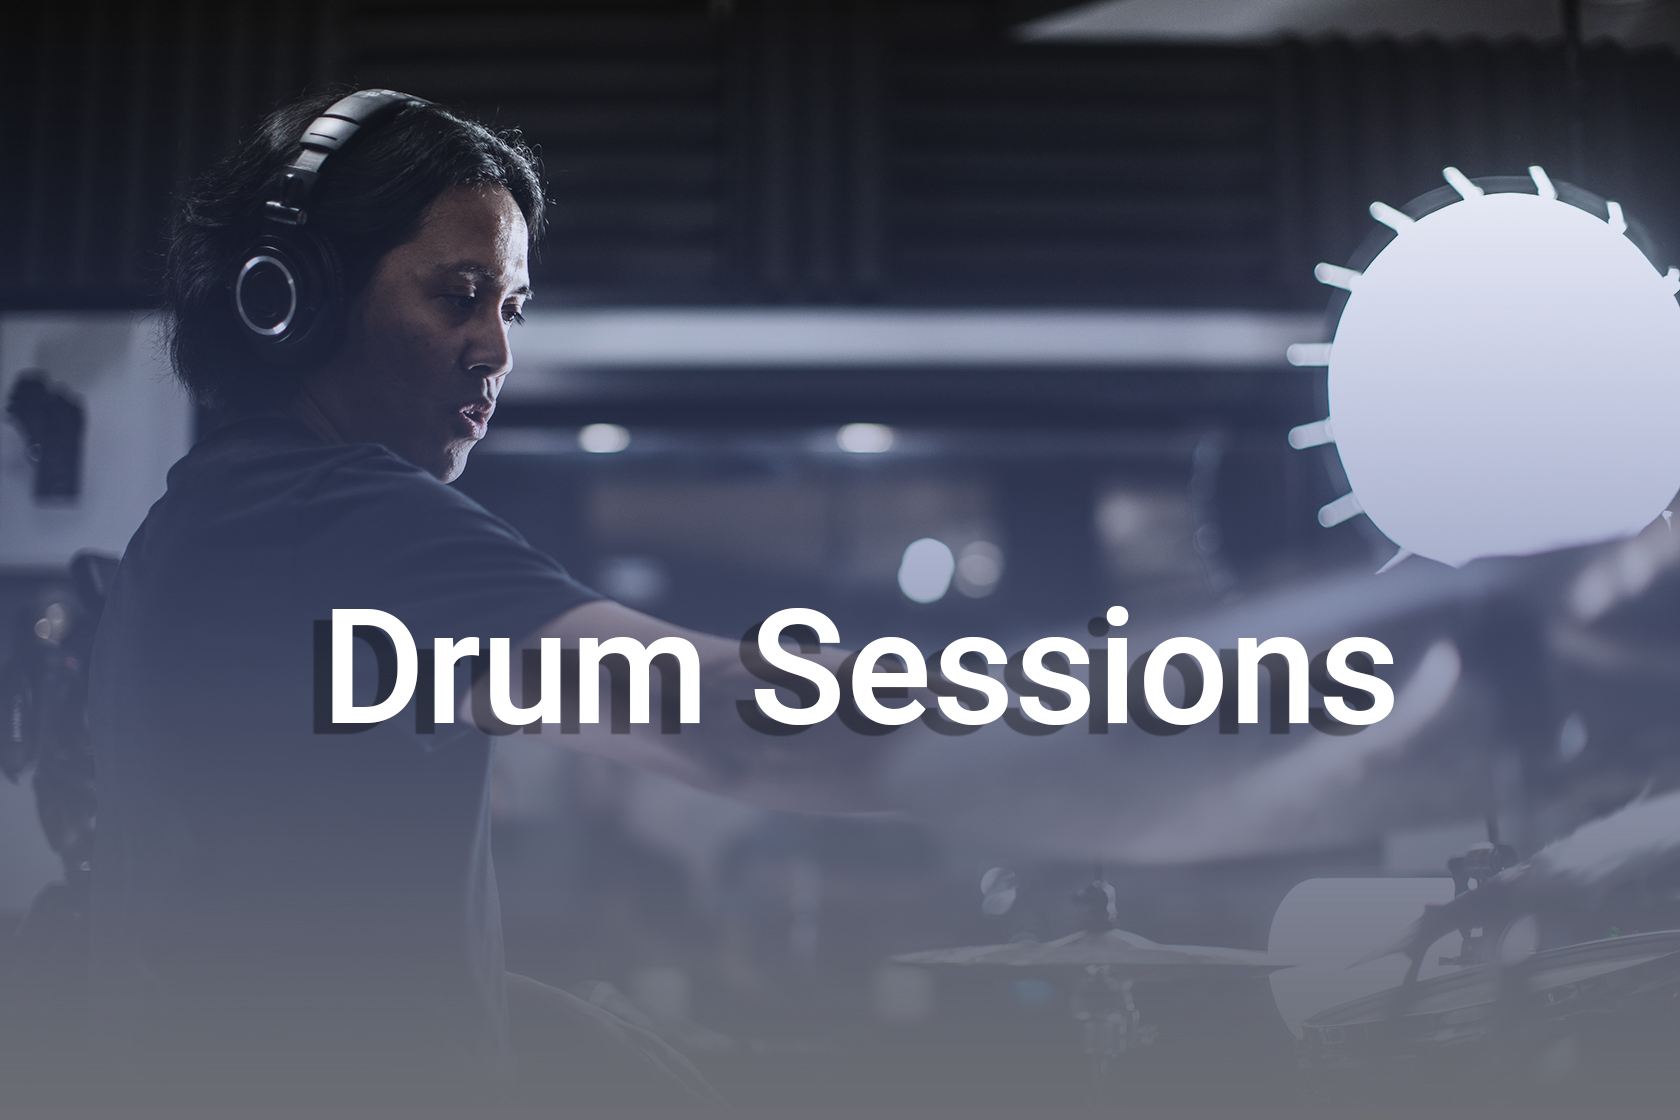
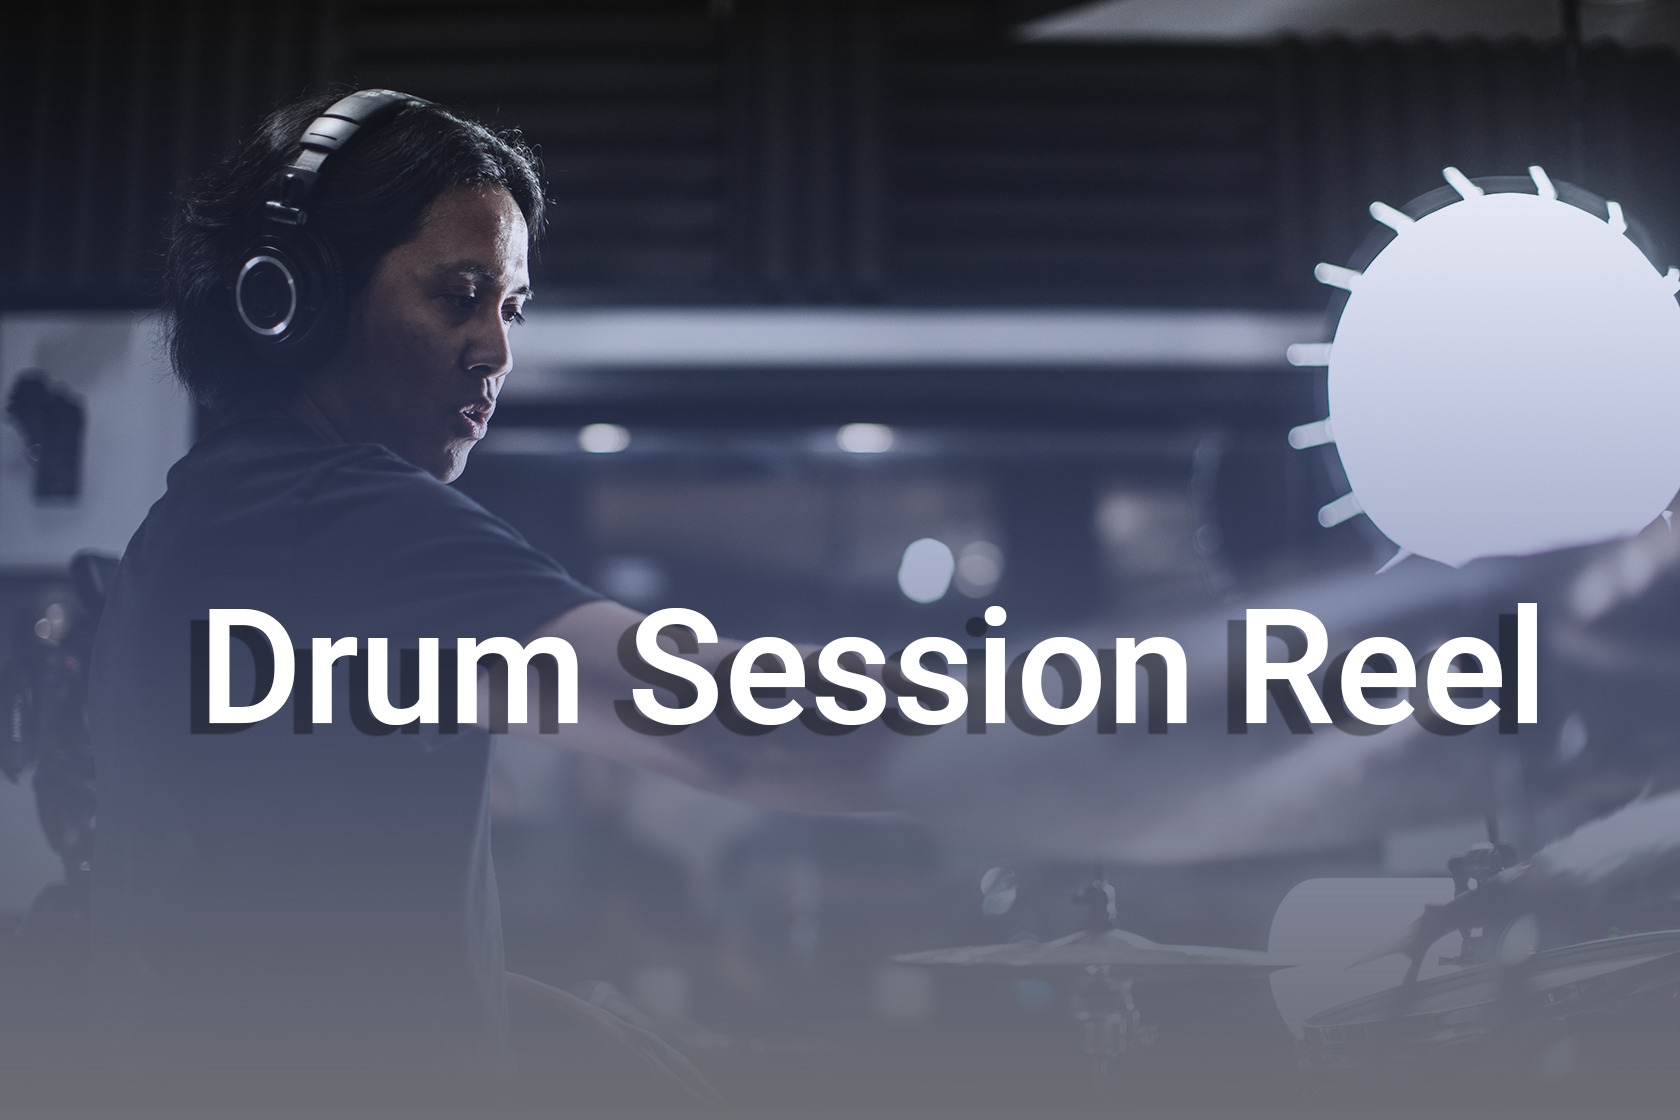
Updated new drum reel and photos

Changed region(s): [[0.0929, 0.5312, 0.9286, 0.6562]]

diff --git a/app.js b/app.js
@@ -3,9 +3,6 @@
 // slice extracts a section of a string without modifying original string
 //offsetTop - A Number, representing the top position of the element, in pixels
 
-
-
-
 // ********** set date ************
 const date = document.getElementById('date');
 date.innerHTML = new Date().getFullYear();
@@ -15,76 +12,70 @@ const navToggle = document.querySelector('.nav-toggle');
 const linksContainer = document.querySelector('.links-container');
 const links = document.querySelector('.links');
 
-navToggle.addEventListener('click', function(){
+navToggle.addEventListener('click', function () {
   // linksContainer.classList.toggle("show-links")
   // non dynamic height
 
   const containerHeight = linksContainer.getBoundingClientRect().height;
   const linksHeight = links.getBoundingClientRect().height;
 
-  if (containerHeight === 0){
-    linksContainer.style.height = `${linksHeight}px`
+  if (containerHeight === 0) {
+    linksContainer.style.height = `${linksHeight}px`;
   } else {
     linksContainer.style.height = 0;
   }
-
-})
+});
 
 const navbar = document.getElementById('nav');
 const topLink = document.querySelector('.top-link');
 // ********** fixed navbar ************
-window.addEventListener('scroll', function(){
+window.addEventListener('scroll', function () {
   const scrollHeight = window.pageYOffset;
   const navHeight = navbar.getBoundingClientRect().height;
 
-  if (scrollHeight > navHeight){
+  if (scrollHeight > navHeight) {
     navbar.classList.add('fixed-nav');
-    topLink.classList.add('show-link')
+    topLink.classList.add('show-link');
   } else {
     navbar.classList.remove('fixed-nav');
     topLink.classList.remove('show-link');
   }
-
-})
-
+});
 
 // ********** smooth scroll ************
 // select links
 
 const scrollLinks = document.querySelectorAll('.scroll-link');
 
-scrollLinks.forEach(function(link){
-  link.addEventListener('click', function(event){
+scrollLinks.forEach(function (link) {
+  link.addEventListener('click', function (event) {
     //prevent default
     event.preventDefault();
     //navigate to specific spot
     const id = event.currentTarget.getAttribute('href').slice(1);
     const element = document.getElementById(id);
 
-// calculate the heights
+    // calculate the heights
     const navHeight = navbar.getBoundingClientRect().height;
     const containerHeight = linksContainer.getBoundingClientRect().height;
     const fixedNav = navbar.classList.contains('fixed-nav');
     let position = element.offsetTop - navHeight;
 
-    if(fixedNav === false){
+    if (fixedNav === false) {
       position = position - navHeight;
     }
 
-    if (navHeight > 82){
+    if (navHeight > 82) {
       position = position + containerHeight;
     }
 
-      // setTimeout(function () { window.scrollTo(0, position); }, 100);
+    // setTimeout(function () { window.scrollTo(0, position); }, 100);
 
-
-      window.scrollTo({
-      left:0,
+    window.scrollTo({
+      left: 0,
       top: position,
-      });
+    });
 
-
-
-    linksContainer.style.height = 0
+    linksContainer.style.height = 0;
   });
-})
+});

diff --git a/index.html b/index.html
@@ -82,17 +82,17 @@
               <a href="./images/rosh-gtr2.jpg" data-lity>
                 <img class="img2" src="./images/rosh-gtr2.jpg" alt="guitar1">
               </a>
-              <a href="./images/rosh-drums1.jpg" data-lity>
+              <a href="https://youtu.be/P4LdJy-oyPk" data-lity class="youtube video4">
                 <img class="img3" src="./images/rosh-drums1.jpg" alt="drums1">
               </a>
               <a href="https://youtu.be/JRNjV4j0r1E" data-lity  class="youtube video3">
                 <img class="img4" src="./images/rosh-drums2.jpg" alt="drums2">
               </a>
               <a href="https://www.youtube.com/E6vGAZkcHjQ" data-lity class="youtube video1">
-                <img src="./images/session-reel.jpg" alt="">
+                <img src="./images/session-reel.jpg" alt="guitar session reel">
               </a>
               <a href="https://youtu.be/BFXivmMnd3w" data-lity class="youtube video2">
-                <img src="./images/live-performance-reel.jpg" alt="">
+                <img src="./images/live-performance-reel.jpg" alt="live reel">
               </a>
 
 
